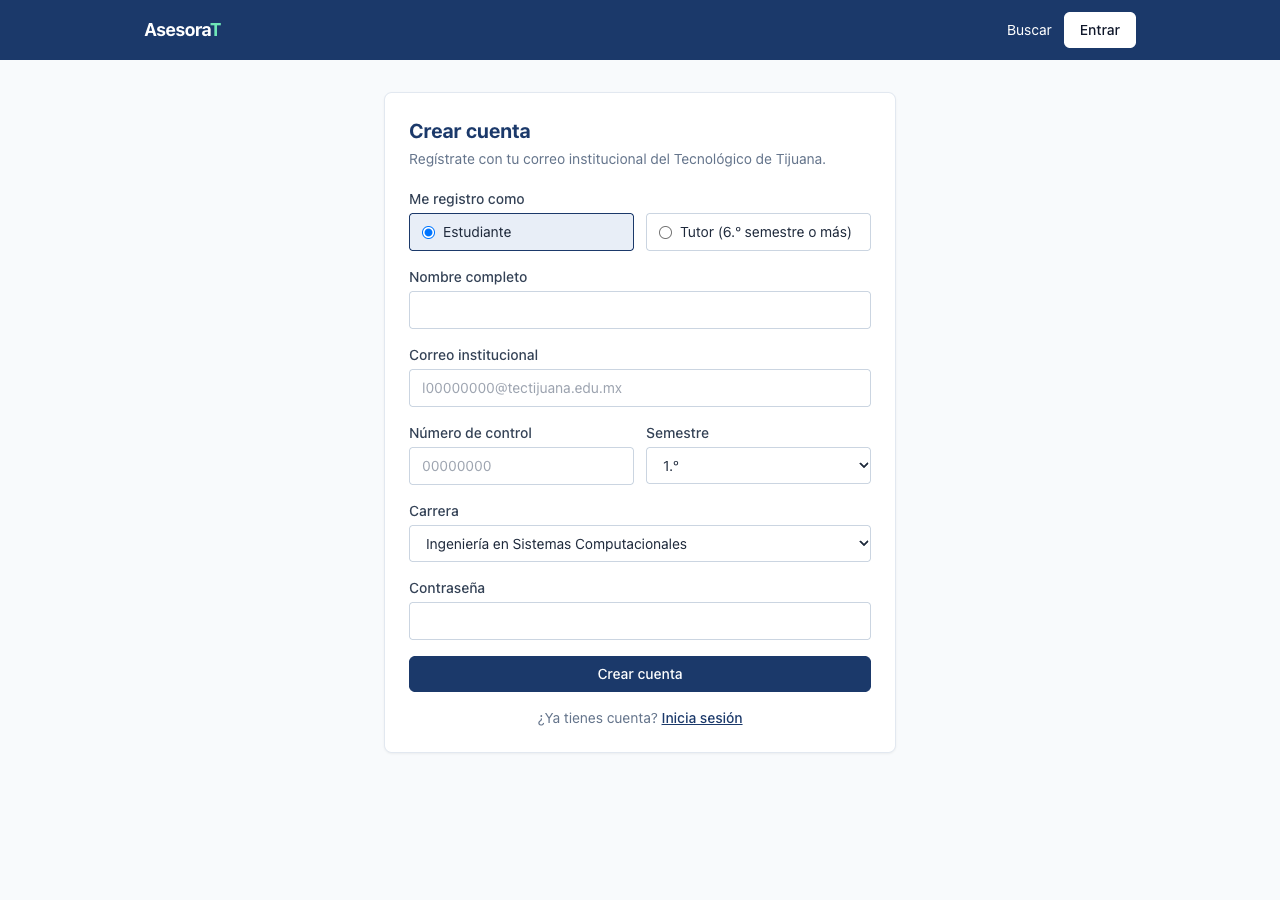
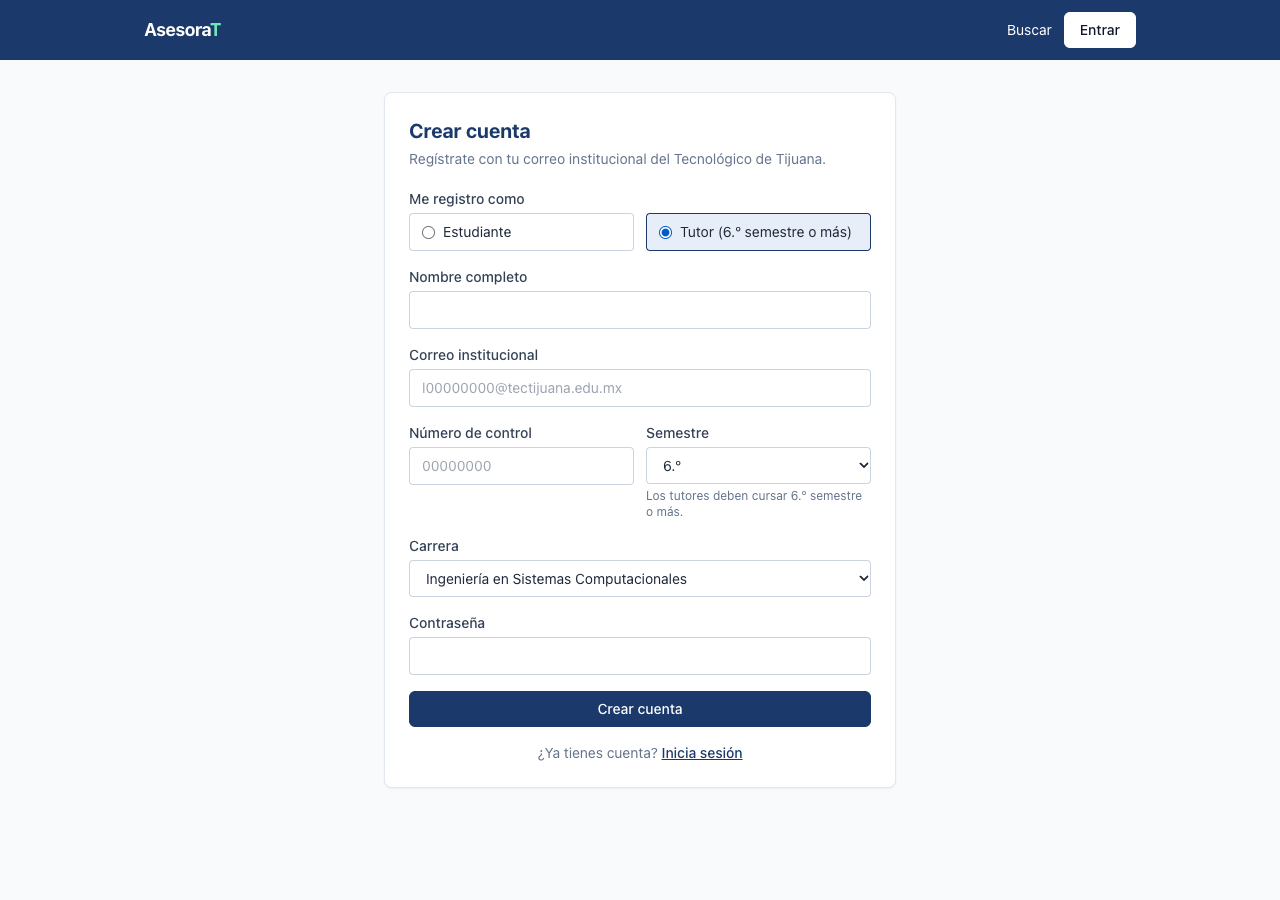
fix: el selector de semestre deshabilita del 1.º al 5.º al registrarse como tutor

Changed region(s): [[0.3125, 0.5289, 0.6875, 0.84], [0.5, 0.2489, 0.5312, 0.28], [0.3125, 0.2489, 0.3438, 0.28]]

diff --git a/src/app/registro/page.tsx b/src/app/registro/page.tsx
@@ -7,6 +7,7 @@ import { signIn } from "next-auth/react";
 import { Campo, estiloInput } from "@/components/Campo";
 import { registrarUsuario, type EstadoRegistro } from "./actions";
 import { boton, aviso } from "@/components/estilos";
+import { SEMESTRE_MINIMO_TUTOR } from "@/lib/validaciones";
 
 const carreras = [
   "Ingeniería en Sistemas Computacionales",
@@ -22,6 +23,15 @@ export default function Registro() {
   const [estado, setEstado] = useState<EstadoRegistro | null>(null);
   const [pendiente, iniciar] = useTransition();
   const errores = estado && !estado.ok ? estado.errores ?? {} : {};
+  const [esTutor, setEsTutor] = useState(false);
+  const [semestre, setSemestre] = useState(1);
+
+  // El mismo selector sirve a los dos roles: con Tutor se deshabilitan los semestres menores al mínimo
+  function cambiarRol(evento: React.ChangeEvent<HTMLInputElement>) {
+    const tutor = evento.target.value === "TUTOR";
+    setEsTutor(tutor);
+    if (tutor && semestre < SEMESTRE_MINIMO_TUTOR) setSemestre(SEMESTRE_MINIMO_TUTOR);
+  }
 
   function enviar(evento: React.FormEvent<HTMLFormElement>) {
     // Se usa onSubmit (y no action) para que el formulario no se borre si hay errores
@@ -52,10 +62,10 @@ export default function Registro() {
         <fieldset className="flex gap-3">
           <legend className="mb-1 text-sm font-medium text-slate-700">Me registro como</legend>
           <label className="flex flex-1 cursor-pointer items-center gap-2 rounded border border-slate-300 px-3 py-2 text-sm has-[:checked]:border-marca has-[:checked]:bg-marca-claro">
-            <input type="radio" name="rol" value="ESTUDIANTE" defaultChecked /> Estudiante
+            <input type="radio" name="rol" value="ESTUDIANTE" defaultChecked onChange={cambiarRol} /> Estudiante
           </label>
           <label className="flex flex-1 cursor-pointer items-center gap-2 rounded border border-slate-300 px-3 py-2 text-sm has-[:checked]:border-marca has-[:checked]:bg-marca-claro">
-            <input type="radio" name="rol" value="TUTOR" /> Tutor (6.º semestre o más)
+            <input type="radio" name="rol" value="TUTOR" onChange={cambiarRol} /> Tutor (6.º semestre o más)
           </label>
         </fieldset>
         {errores.rol && <p className="text-xs text-red-700">{errores.rol}</p>}
@@ -71,11 +81,12 @@ export default function Registro() {
             <input name="numeroControl" inputMode="numeric" placeholder="00000000" className={estiloInput} />
           </Campo>
           <Campo etiqueta="Semestre" error={errores.semestre}>
-            <select name="semestre" defaultValue="1" className={estiloInput}>
+            <select name="semestre" value={semestre} onChange={(e) => setSemestre(Number(e.target.value))} className={estiloInput}>
               {Array.from({ length: 12 }, (_, i) => i + 1).map((s) => (
-                <option key={s} value={s}>{s}.º</option>
+                <option key={s} value={s} disabled={esTutor && s < SEMESTRE_MINIMO_TUTOR}>{s}.º</option>
               ))}
             </select>
+            {esTutor && <span className="text-xs text-slate-500">Los tutores deben cursar {SEMESTRE_MINIMO_TUTOR}.º semestre o más.</span>}
           </Campo>
         </div>
         <Campo etiqueta="Carrera" error={errores.carrera}>

diff --git a/docs/manual-de-usuario.md b/docs/manual-de-usuario.md
@@ -100,7 +100,7 @@ Todas usan la contraseña `Asesorat2026`.
 
 1. En la página de inicio pulsa **Crear cuenta**.
 2. Elige si te registras como **Estudiante** o **Tutor**.
-3. Escribe tu nombre completo, correo institucional, número de control (8 dígitos), semestre y carrera.
+3. Escribe tu nombre completo, correo institucional, número de control (8 dígitos), semestre y carrera. Si eliges **Tutor**, el selector solo permite del 6.º semestre en adelante.
 4. Escribe una contraseña de al menos 8 caracteres con letras y números.
 5. Pulsa **Crear cuenta**. El sistema inicia tu sesión y te lleva a tu panel.
 
